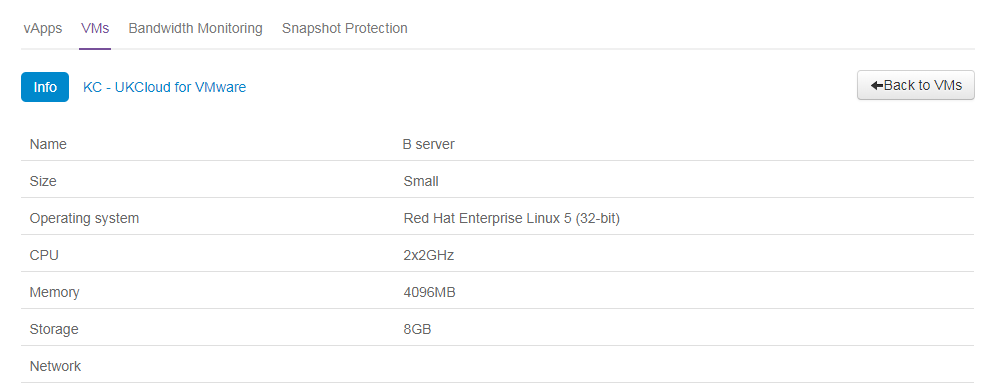
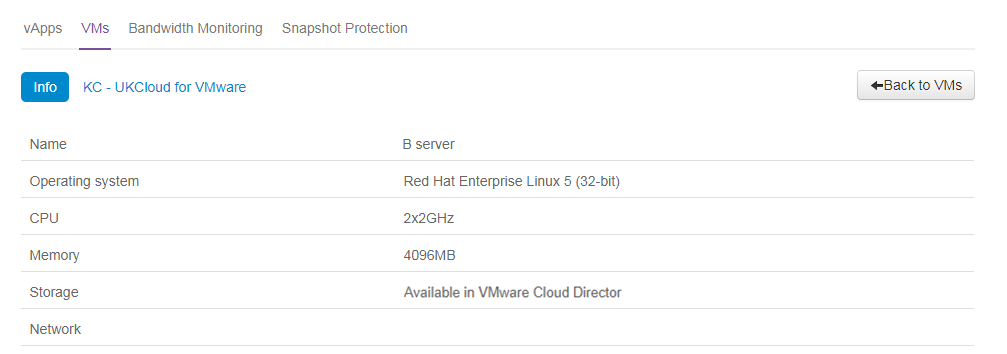
Update My VMs article
Remove Storage details
Also preemptively removed text about Bandwidth Monitoring

diff --git a/articles/vmware/vmw-how-portal-view-vms.md b/articles/vmware/vmw-how-portal-view-vms.md
@@ -2,9 +2,9 @@
 title: How to view your VMs in the UKCloud Portal
 description: Shows how to view your virtual machines within the UKCloud portal
 services: vmware
-author: Sue Highmoor
-reviewer: Sue Highmoor
-lastreviewed: 04/02/2020
+author: shighmoor
+reviewer: shighmoor
+lastreviewed: 03/11/2020
 
 toc_rootlink: How To
 toc_sub1:
@@ -20,7 +20,7 @@ toc_mdlink: vmw-how-portal-view-vms.md
 
 ## Overview
 
-The My VMs page in the UKCloud Portal enables you to see, at a glance, the services currently operational within your environment. My VMs doesn't just cover virtual machines (VMs); it also covers deployed vApps and bandwidth monitoring.
+The My VMs page in the UKCloud Portal enables you to see, at a glance, the services currently operational within your environment, including virtual machines (VMs) and vApps.
 
 ## Accessing the My VMs page
 
@@ -81,19 +81,6 @@ The **VMs** tab displays a list of all VMs within your environment.
     ![VM Info tab](images/ptl-myvms-vm-info.png)
 
 3. Click **Back to VMs** to return to the main *My VMs* page.
-
-## Viewing bandwidth monitoring information
-
-The **Bandwidth Monitoring** tab displays bandwidth statistics for the edge gateways within your VDCs.
-
-> [!NOTE]
-> Bandwidth Monitoring is not available for the Elevated OFFICIAL security domain.
-
-1. Select the **Bandwidth Monitoring** tab.
-
-2. From the **Select Edge** list, select the edge gateway you want to work with.
-
-3. Select the appropriate tab to view different bandwidth statistics.
 
 ## Viewing snapshot protection information
 
